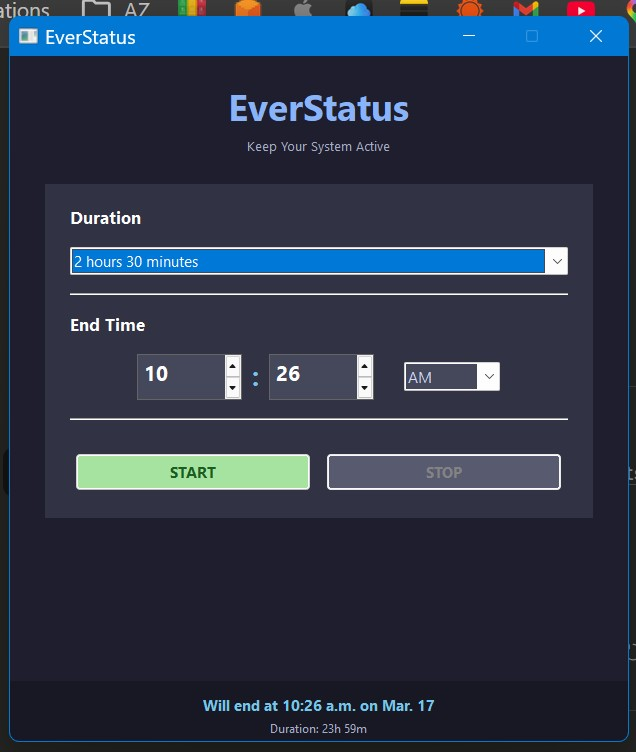
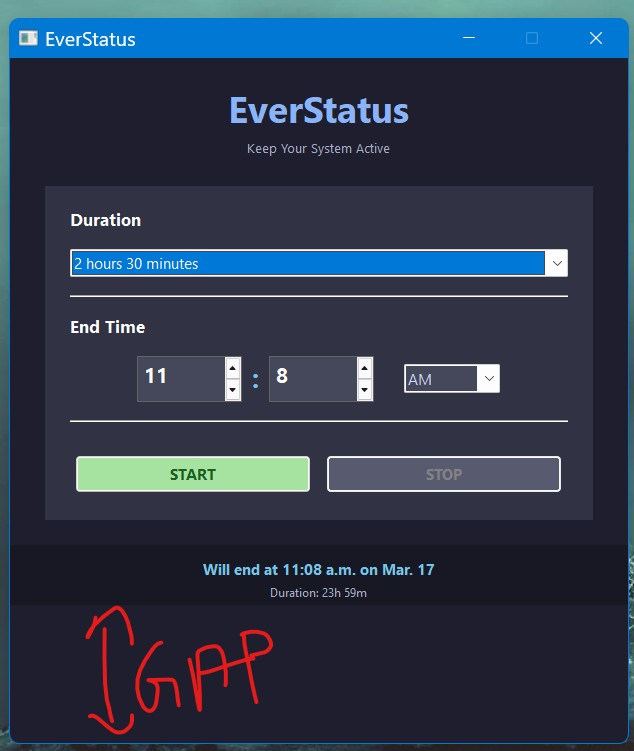
Fix UI layout and DPI handling tweaks
Adjust main panel vertical alignment to top, remove redundant card spacer,
and simplify DPI change handler to use shell.pack().
Remove outdated screen issue screenshots.

diff --git a/src/main/java/com/automations/everstatus/KeepActiveApp.java b/src/main/java/com/automations/everstatus/KeepActiveApp.java
@@ -129,7 +129,7 @@ public class KeepActiveApp {
 
         // Main Card Panel
         Composite mainPanel = new Composite(contentArea, SWT.NONE);
-        mainPanel.setLayoutData(new GridData(SWT.FILL, SWT.FILL, true, true));
+        mainPanel.setLayoutData(new GridData(SWT.FILL, SWT.TOP, true, false));
         mainPanel.setBackground(cardBgColor);
         GridLayout mainPanelLayout = new GridLayout(1, false);
         mainPanelLayout.marginWidth = 25;
@@ -313,11 +313,6 @@ public class KeepActiveApp {
         stopButton.setForeground(mutedTextColor);
         stopButton.setEnabled(false);
 
-        // Spacer to absorb extra vertical space (keeps controls at top)
-        Label cardSpacer = new Label(mainPanel, SWT.NONE);
-        cardSpacer.setLayoutData(new GridData(SWT.FILL, SWT.FILL, true, true));
-        cardSpacer.setBackground(cardBgColor);
-
         // BOTTOM STATUS BAR - Sleek dark design
         Composite statusBar = new Composite(shell, SWT.NONE);
         GridData statusBarData = new GridData(SWT.FILL, SWT.CENTER, true, false);
@@ -403,13 +398,8 @@ public class KeepActiveApp {
             int currentDpi = display.getDPI().x;
             if (currentDpi != lastDpi[0]) {
                 lastDpi[0] = currentDpi;
-                // Re-layout all components when DPI changes
                 shell.layout(true, true);
-                // Recompute size
-                org.eclipse.swt.graphics.Point newSize = shell.computeSize(SWT.DEFAULT, SWT.DEFAULT);
-                int newWidth = Math.max(newSize.x, 400);
-                int newHeight = Math.max(newSize.y, 480);
-                shell.setSize(newWidth, newHeight);
+                shell.pack();
             }
         });
 
